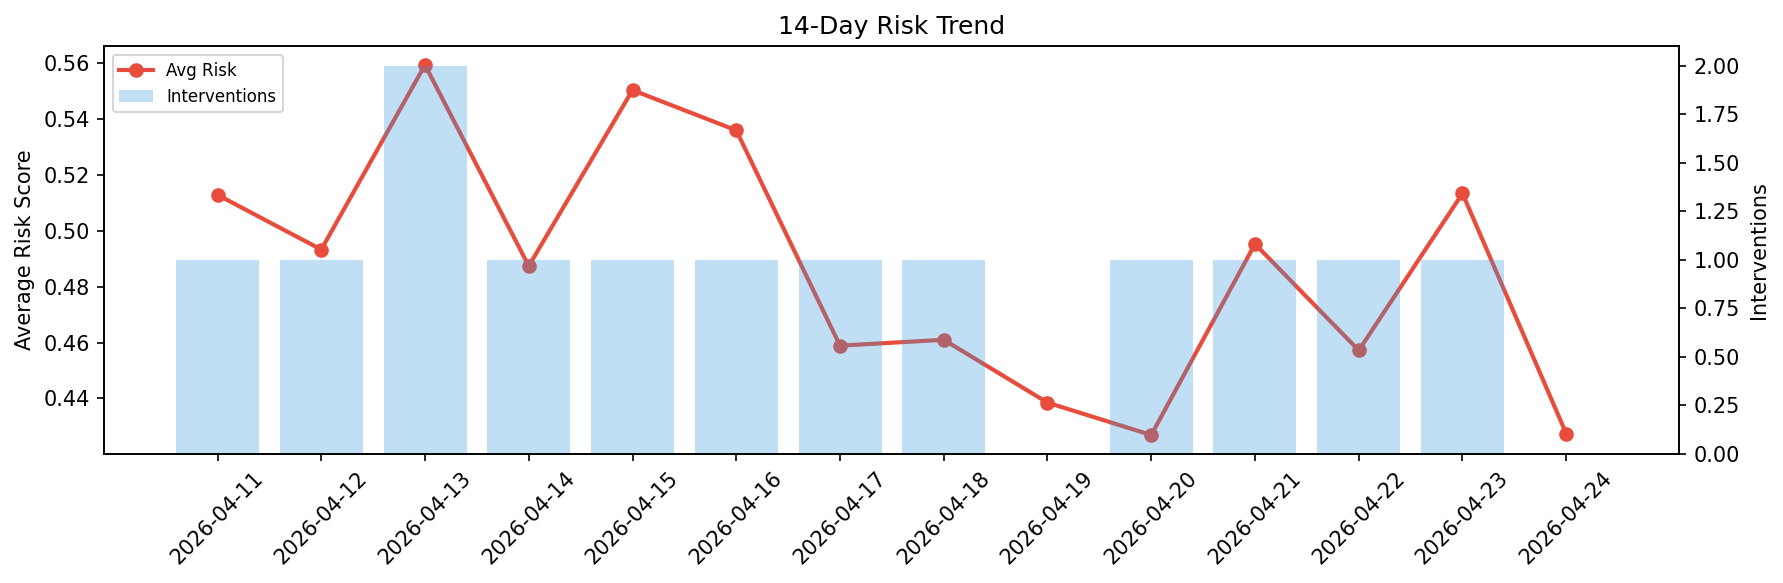
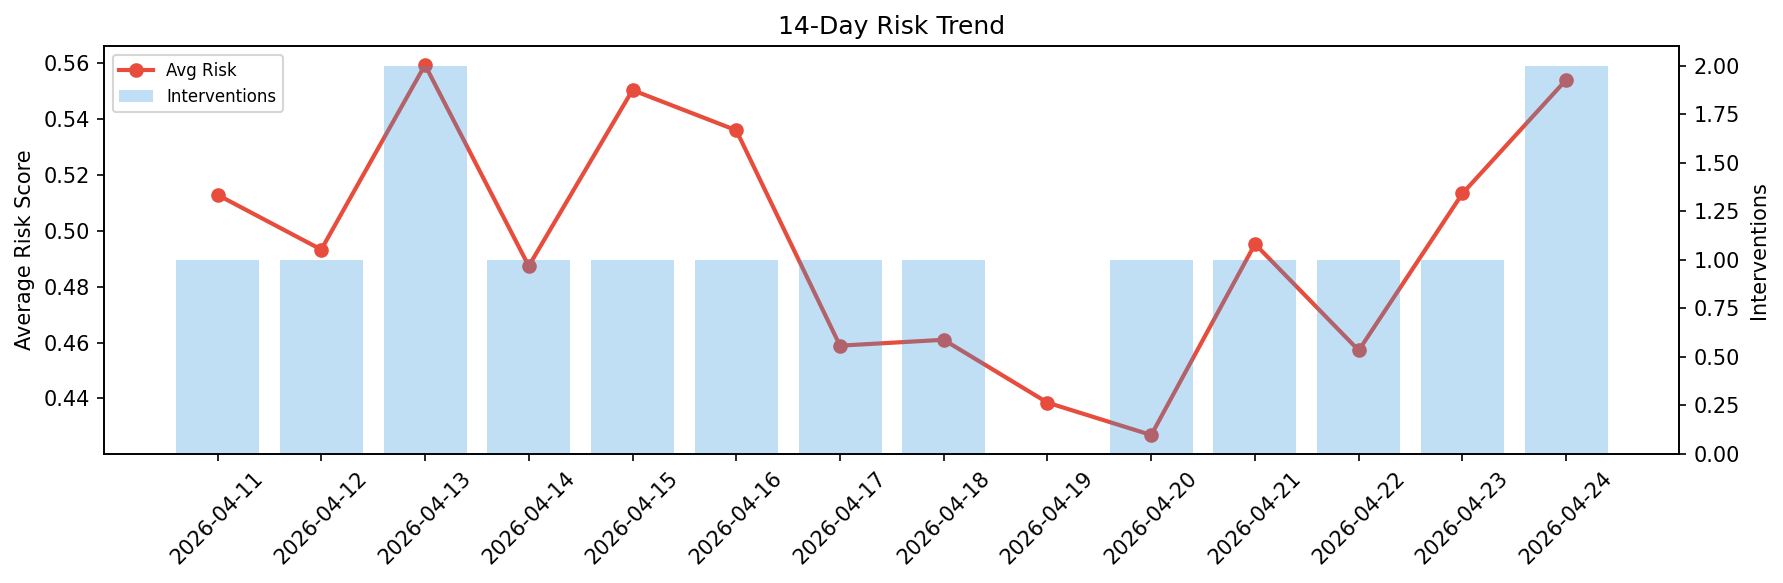
agent-improvement: daily cycle 2026-04-24T15:38

Changed region(s): [[0.8329, 0.0926, 0.9254, 0.8027]]

diff --git a/logs/2026-04-24.md b/logs/2026-04-24.md
@@ -1,6 +1,6 @@
 # Agent Improvement Report — 2026-04-24
 
-**Cycle ID:** `07e538d6` | **Avg Risk:** 0.4274 | **Interventions:** 0/4
+**Cycle ID:** `7e1a8315` | **Avg Risk:** 0.5541 | **Interventions:** 2/4
 
 ![Dashboard](2026-04-24_dashboard.png)
 
@@ -10,18 +10,18 @@
 
 | Domain | Risk Score | Decision | Alerts |
 |--------|-----------|----------|--------|
-| code_review | 0.5108 | monitor | duplication |
-| incident_response | 0.411 | monitor | none |
-| data_pipeline | 0.3851 | monitor | none |
-| deployment | 0.4026 | monitor | none |
+| code_review | 0.7284 | intervene | duplication |
+| incident_response | 0.36 | monitor | blast_radius |
+| data_pipeline | 0.4317 | monitor | schema_drift |
+| deployment | 0.6964 | intervene | canary_error |
 
 ## Delta vs Yesterday
 
 | Domain | Today | Yesterday | Change |
 |--------|-------|-----------|--------|
-| code_review | 0.5108 | 0.3193 | 📈 60.0% |
-| incident_response | 0.411 | 0.6369 | 📉 -35.5% |
-| data_pipeline | 0.3851 | 0.5972 | 📉 -35.5% |
-| deployment | 0.4026 | 0.5002 | 📉 -19.5% |
+| code_review | 0.7284 | 0.3193 | 📈 128.1% |
+| incident_response | 0.36 | 0.6369 | 📉 -43.5% |
+| data_pipeline | 0.4317 | 0.5972 | 📉 -27.7% |
+| deployment | 0.6964 | 0.5002 | 📈 39.2% |
 
 **Refinement:** `{'adjustment': 'maintain', 'trend': 'improving', 'window': 4}`
